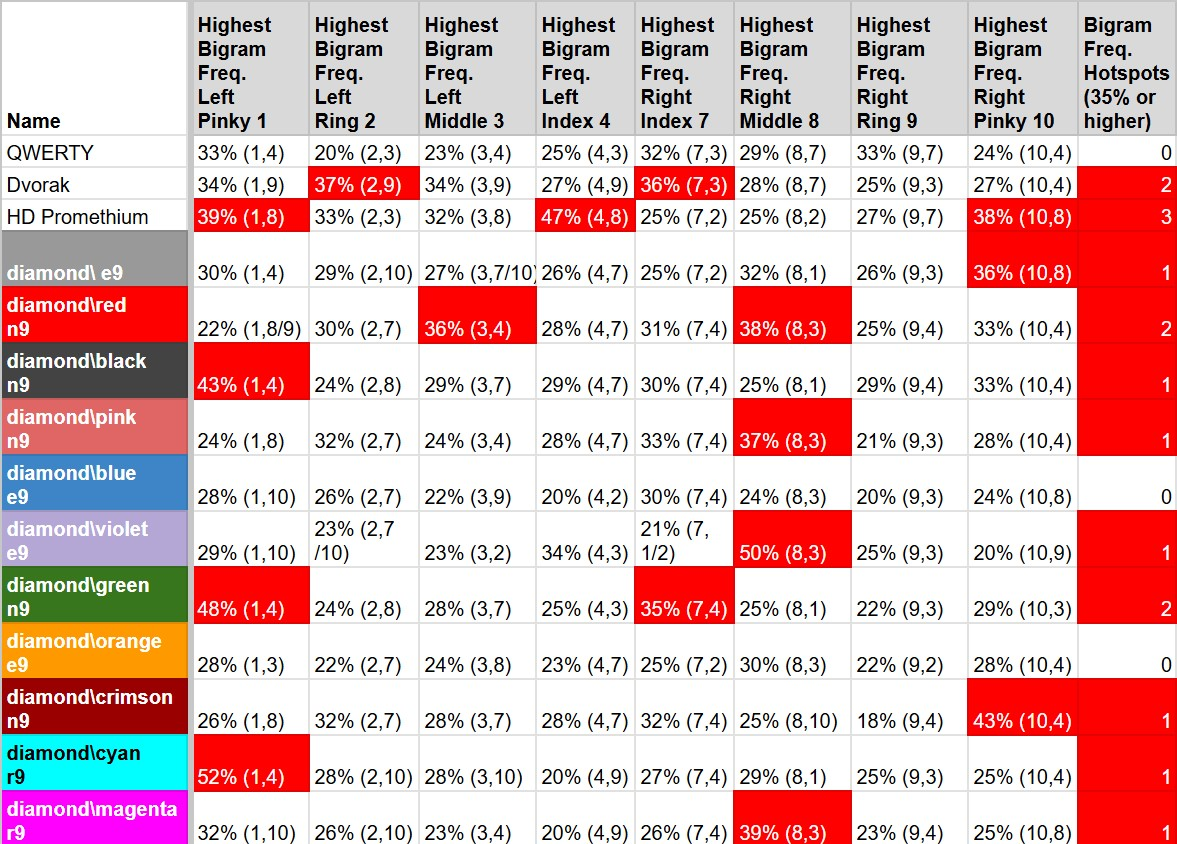
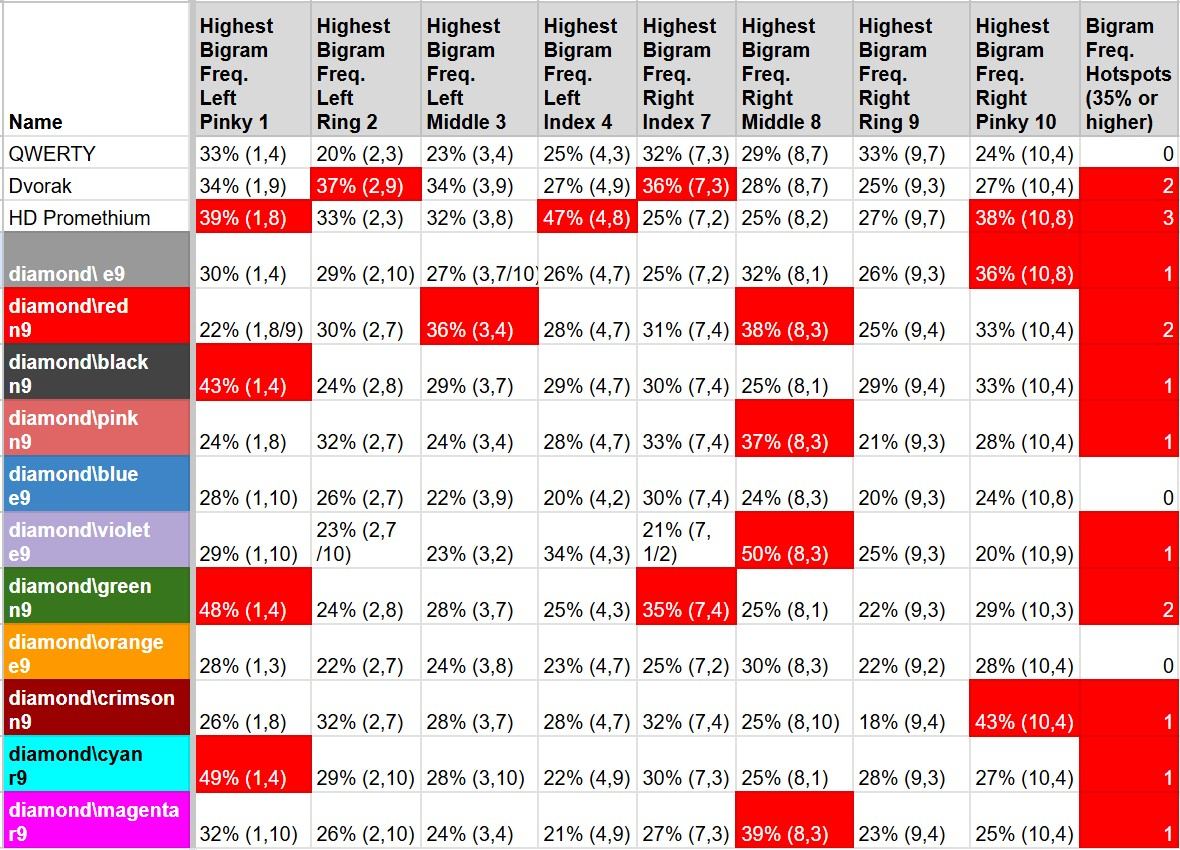
updated stats, added proof of learning diamond\cyan r9

Changed region(s): [[0.0, 0.0, 1.0, 1.0], [0.7341, 0.0, 1.0, 0.2773], [0.6423, 0.0, 0.6729, 0.1232]]

diff --git a/README.md b/README.md
@@ -585,6 +585,9 @@ diamond\\orange e9 (latest version), finished with Q and J left to unlock on Feb
 diamond\\crimson n9, unlocked all keys on February 5th 2026:
 ![screenshot from keybr for learning the above layout](https://raw.githubusercontent.com/r134x7/diamond_backslash/refs/heads/main/images/keybr_diamond_backslash_crimson_1.jpg)
 
+diamond\\cyan r9, unlocked all keys on February 9th 2026:
+![screenshot from keybr for learning the above layout](https://raw.githubusercontent.com/r134x7/diamond_backslash/refs/heads/main/images/keybr_diamond_backslash_cyan_r9_1.jpg)
+
 ---
 
 Adding to the above, I kept track of the amount of days I spent learning each layout.
@@ -649,3 +652,13 @@ took 1 day to reach E,N,I,A,R,L,T,O,S,U,D,Y,C,G,H,P,M,K,B,W,F,Z,V,X,Q,J.
 
 currently day 1 (for this layout) - All keys unlocked!
 finished on day 9 (for all layouts)
+
+8:
+diamond\cyan r9
+started on day 10 (for all layouts)
+took 1 day to reach E,N,I,A,R,L,T,O,S,U,D,Y,C
+took 2 days to reach E,N,I,A,R,L,T,O,S,U,D,Y,C,G,H,P,M,K,B
+took 3 days to reach E,N,I,A,R,L,T,O,S,U,D,Y,C,G,H,P,M,K,B,W,F,Z,V,X,Q,J.
+
+currently day 3 (for this layout) - 1 letter left to unlock
+finished on day 12 (for all layouts)
